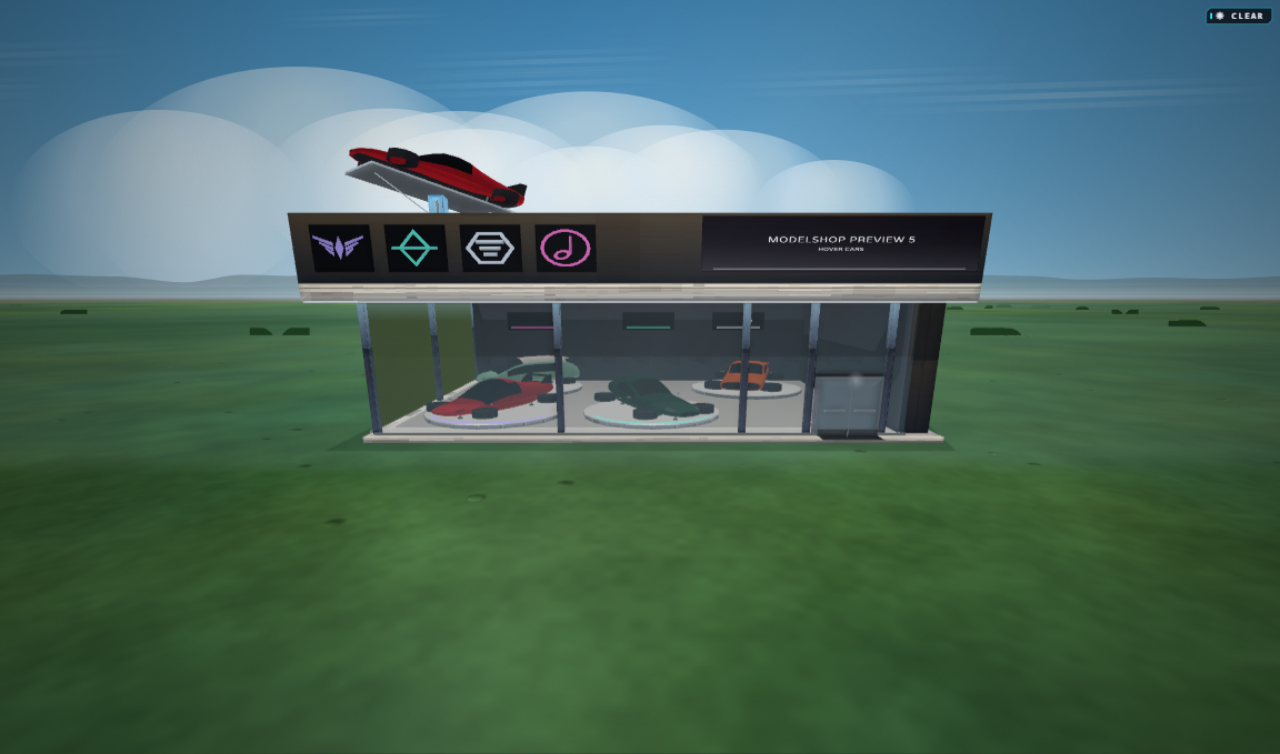
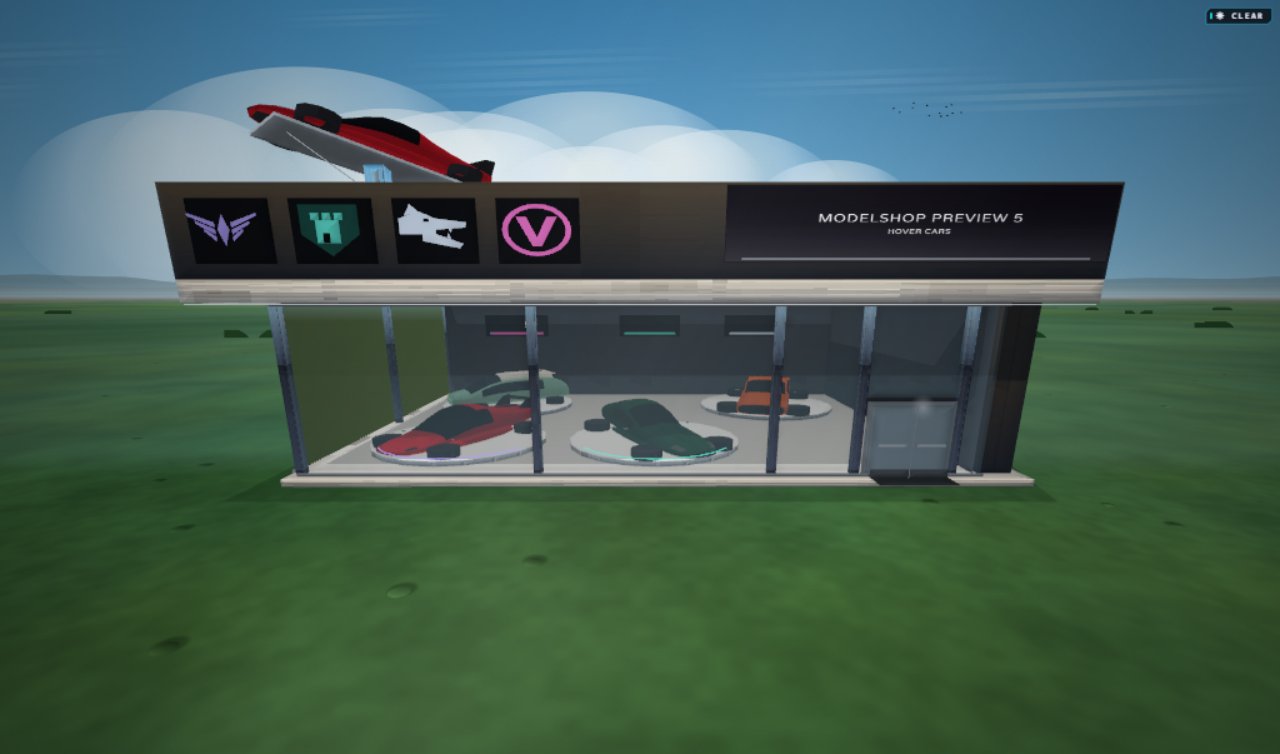
Higher Purchase: the makers' emblems after the rename
Castellan's tower, Brakk's beast's head and Vex's V are drawn from the cars'
own table (client/shared/hover-car-emblems.js), so the sign band and the badge
on each car are one drawing. Corvane's wings stay in dealer-display.js. A piece
is a ground or a device, and the arm stands each layer a hair off the last.

Changed region(s): [[0.125, 0.122, 0.875, 0.6711], [0.9062, 0.4271, 0.9688, 0.4576], [0.4062, 0.7321, 0.4375, 0.7626]]

diff --git a/client/shared/dealer-display.js b/client/shared/dealer-display.js
@@ -13,6 +13,8 @@
 // Change that car's row in DEALER_CARS: its own `cls` and `metres`, a livery of its own, and drop
 // `standIn`. One line. A bay whose car has `standIn` holds a Merlin in the maker's colour.
 
+import { HOVER_EMBLEMS } from './hover-car-emblems.js';
+
 // A livery is what `liveryPalette` (panels/aircraft3d.js) takes: the row's `exterior`.
 export const DEALER_CARS = {
   merlin:  { cls: 'merlin', metres: 4.6, livery: { base: '#b2162a', trim: '#ece8e0', finish: 'gloss', pattern: 'factory', variant: 'rosso' } },
@@ -26,9 +28,9 @@ export const DEALER_CARS = {
 // round its turntable.
 export const DEALER_BAYS = [
   { where: 'a', maker: 'Corvane', mark: 'C', line: [168, 150, 255], car: 'merlin' },
-  { where: 'b', maker: 'Castellan', mark: 'H', line: [84, 226, 208],  car: 'wraith' },
-  { where: 'c', maker: 'Brakk',  mark: 'G', line: [214, 232, 255], car: 'wolverine' },
-  { where: 'd', maker: 'Vex',   mark: 'M', line: [255, 110, 214], car: 'hornet' },
+  { where: 'b', maker: 'Castellan', mark: 'C', line: [84, 226, 208],  car: 'wraith' },
+  { where: 'c', maker: 'Brakk',  mark: 'B', line: [214, 232, 255], car: 'wolverine' },
+  { where: 'd', maker: 'Vex',   mark: 'V', line: [255, 110, 214], car: 'hornet' },
 ];
 // The car on the pylon outside: whichever the dealership is showing off.
 export const DEALER_PYLON = 'merlin';
@@ -53,46 +55,23 @@ export const DEALER_PLAN = {
 };
 
 // ── THE MAKERS' EMBLEMS ─────────────────────────────────────────────────────────────────────
-// Each is a list of quads in a unit box, u right and v up, -1 to 1, drawn in the maker's line colour
-// on a dark plate. A badge has to be told from its neighbour by its outline before anything inside
-// it can be read, so the four have four outlines: wings, a lozenge, a hexagon and a roundel. The
-// figures are the badges docs/proposals/hover-cars.md gives each maker; Corvane's is the wings an
-// aerospace firm would wear.
-const arc = (cx, cy, rx, ry, t, n, rot = 0, a0 = 0, a1 = Math.PI * 2) => {
-  const cr = Math.cos(rot), sr = Math.sin(rot), out = [];
-  const at = (a, k) => { const x = Math.cos(a) * rx * k, y = Math.sin(a) * ry * k; return [cx + x * cr - y * sr, cy + x * sr + y * cr]; };
-  for (let i = 0; i < n; i++) { const p = a0 + (a1 - a0) * i / n, q = a0 + (a1 - a0) * (i + 1) / n; out.push([at(p, 1), at(q, 1), at(q, 1 - t), at(p, 1 - t)]); }
-  return out;
-};
-const bar = (x0, y0, x1, y1) => [[x0, y1], [x1, y1], [x1, y0], [x0, y0]];
-// a frame between a polygon and the same polygon shrunk by `k`
-const frame = (pts, k) => pts.map((p, i) => { const q = pts[(i + 1) % pts.length]; return [p, q, [q[0] * k, q[1] * k], [p[0] * k, p[1] * k]]; });
-const HEX = [0, 1, 2, 3, 4, 5].map((i) => [Math.cos(i * Math.PI / 3) * 0.98, Math.sin(i * Math.PI / 3) * 0.98]);
+// Castellan's, Brakk's and Vex's are the cars' own (client/shared/hover-car-emblems.js, the drawing on
+// each car's nose and wheel): a tower on a shield, a beast's head with its jaw open, a V in a circle.
+// Corvane's isn't in that table, so its wings are here: an aerospace firm's, swept either side of a
+// kite. Every emblem is a list of convex pieces in a box from -1 to 1, back to front, each
+// { p, tone }: 'field' is the ground it sits on and 'mark' the device.
+const CORVANE_WINGS = [
+  [[0, 0.62], [0.17, 0.02], [0, -0.62], [-0.17, 0.02]],
+  ...[-1, 1].flatMap((side) => [0, 1, 2].map((i) => {
+    const y0 = 0.30 - i * 0.27, xt = 1.0 - i * 0.22, yt = 0.66 - i * 0.30;
+    return [[side * 0.24, y0], [side * xt, yt], [side * xt, yt - 0.11], [side * 0.24, y0 - 0.20]];
+  })),
+].map((q) => ({ p: q, tone: 'mark' }));
 export const DEALER_EMBLEMS = {
-  // swept wings of three feathers either side of a kite
-  Corvane: [
-    [[0, 0.62], [0.17, 0.02], [0, -0.62], [-0.17, 0.02]],
-    ...[-1, 1].flatMap((s) => [0, 1, 2].map((i) => {
-      const y0 = 0.30 - i * 0.27, xt = 1.0 - i * 0.22, yt = 0.66 - i * 0.30;
-      return [[s * 0.24, y0], [s * xt, yt], [s * xt, yt - 0.11], [s * 0.24, y0 - 0.20]];
-    })),
-  ],
-  // an upright lozenge, a coachline inside it, and a bar across
-  Castellan: [
-    ...frame([[0, 1], [0.66, 0], [0, -1], [-0.66, 0]], 0.76),
-    bar(-0.92, -0.085, 0.92, 0.085),
-  ],
-  // a hexagon nut holding three stacked bars, the longest on top
-  Brakk: [
-    ...frame(HEX, 0.82),
-    bar(-0.56, 0.24, 0.56, 0.44), bar(-0.42, -0.10, 0.42, 0.10), bar(-0.27, -0.44, 0.27, -0.24),
-  ],
-  // a roundel holding a vex: an open note head on a stem
-  Vex: [
-    ...arc(0, 0, 1, 1, 0.13, 18),
-    ...arc(-0.14, -0.36, 0.36, 0.25, 0.42, 12, 0.35),
-    bar(0.15, -0.30, 0.25, 0.64),
-  ],
+  Corvane: CORVANE_WINGS,
+  Castellan: HOVER_EMBLEMS.castellan,
+  Brakk: HOVER_EMBLEMS.brakk,
+  Vex: HOVER_EMBLEMS.vex,
 };
 export const dealerEmblem = (maker) => DEALER_EMBLEMS[maker] || [];
 

diff --git a/client/game/js/panels/glass/models/dealership.js b/client/game/js/panels/glass/models/dealership.js
@@ -225,7 +225,18 @@ export const DEALERSHIP_ARMS = {
       pane('f', yE, bx - hw, bx + hw, z0, z1, [10, 11, 14], [14, 16, 20], 1, 1.3);
       // the maker's emblem (dealer-display.js), in its line colour: quads on the plate, so it's mesh and lit after dark
       const zc = (z0 + z1) / 2, k = Math.min(hw, (z1 - z0) / 2) * 0.82;
-      for (const q of dealerEmblem(bay.maker)) flat(q.map(([u, v]) => [bx + u * k, yE + FACE_EPS, zc + v * k]), [0, 1, 0], bay.line.map((c) => c * 0.82), bay.line, 1, 1.6);
+      // Pieces come back to front on one plane, so each layer stands a hair off the last: the ground (a dim
+      // tint of the line), the device (the line, lit after dark), then anything cut out of it (the plate's black).
+      let layer = 0;
+      dealerEmblem(bay.maker).forEach((piece, n) => {
+        const mark = piece.tone !== 'field';
+        if (mark && layer < 1) layer = 1; else if (!mark && n > 0 && layer >= 1) layer = 2;
+        const day = !mark ? (layer === 2 ? [10, 11, 14] : bay.line.map((c) => c * 0.22)) : bay.line.map((c) => c * 0.82);
+        const lit = !mark ? (layer === 2 ? [14, 16, 20] : bay.line.map((c) => c * 0.30)) : bay.line;
+        const pts = piece.p.map(([u, v]) => [bx + u * k, yE + FACE_EPS * (1 + layer * 0.6), zc + v * k]);
+        // a flat is three or four points, so a longer convex piece goes out as a fan
+        for (let j = 1; j + 1 < pts.length; j += 2) flat([pts[0], pts[j], pts[j + 1], ...(pts[j + 2] ? [pts[j + 2]] : [])], [0, 1, 0], day, lit, 1, 1.6 + layer * 0.2);
+      });
     });
     // The trade on the other street side, never the name twice (building-styles §4.1).
     { const [ax, ay] = F(-EDGE, 0), [bx, by] = F(-EDGE - 1, 0);

diff --git a/docs/proposals/vtol-dealership.md b/docs/proposals/vtol-dealership.md
@@ -62,9 +62,11 @@ is lit inside it, not by its height.
   emblems in a row and the name once, with the trade under it; round the corner it says HOVER CARS.
 - **Each maker has its own emblem**, told apart by its outline before anything in it is read, the
   way real marques are: Corvane's swept wings round a kite (an aerospace firm's, as Bentley's
-  came from aero engines), Castellan's upright lozenge with a bar across, Brakk's hexagon nut
-  holding three stacked bars, and Vex's roundel holding the note it's named for. They're quads
-  in `DEALER_EMBLEMS`, drawn in the maker's line colour and lit after dark.
+  came from aero engines), Castellan's tower on a shield, Brakk's beast's head with its jaw open,
+  and Vex's V in a circle. The last three are the cars' own drawings
+  (`client/shared/hover-car-emblems.js`, the badge on each nose and wheel), so the sign and the
+  car can't differ; Corvane's is in `DEALER_EMBLEMS`. Each is drawn in its maker's line colour and
+  lit after dark.
 - **A landing pad on the roof**, a yellow ring and an H in the middle of the slab with lamps round
   it. It's a real pad: the dealership is its own small VTOL field, so a car you buy is standing on
   it, a Merlin's LOCK catches it, and you land there to sell or service. A glazed lift head at the
